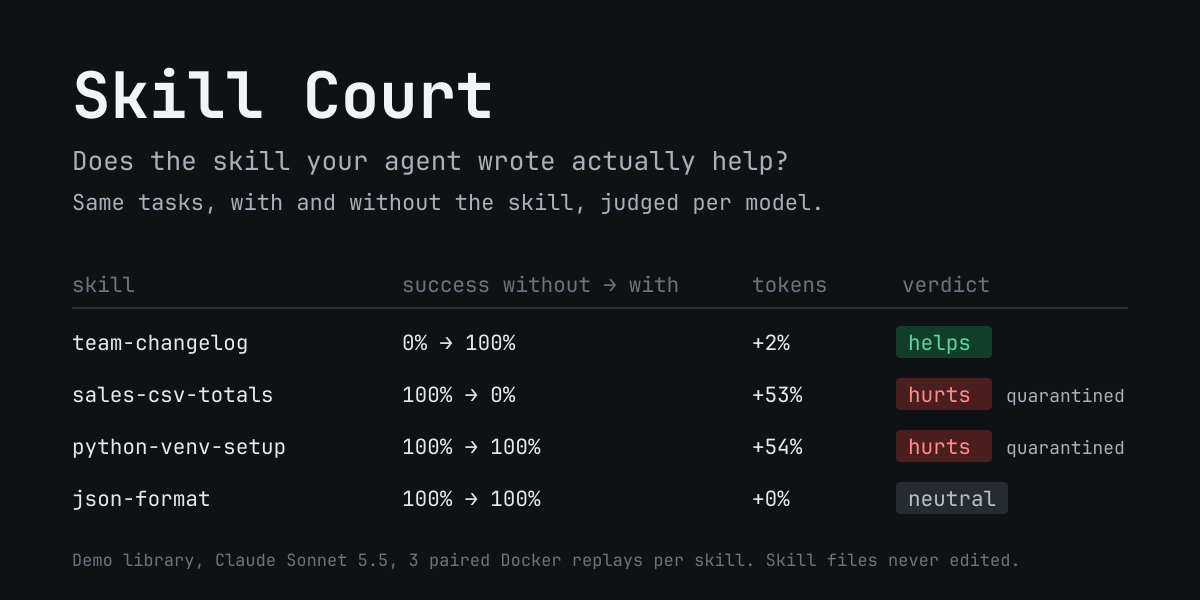
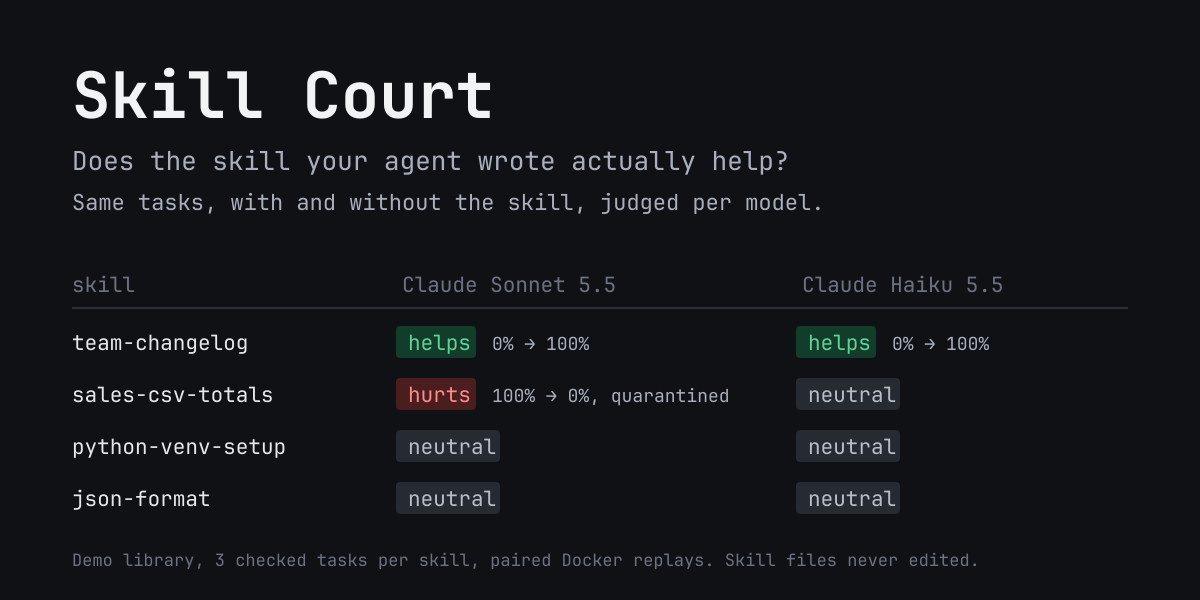
Scrub inherited launch flags, manual approvals and no shell hooks in replays; graceful replay timeout; unpriced cost detection; final demo assets

diff --git a/skill-court/procs.py b/skill-court/procs.py
@@ -1,7 +1,7 @@
 """Run the public ``hermes`` and container CLIs as child processes.
 
-Replays go through ``hermes -p <profile> -z`` because Hermes has no public in-process agent API,
-and sandbox checks go through the same container CLI Hermes' Docker backend uses.
+Replays go through ``hermes -p <profile> chat -Q --oneshot`` because Hermes has no public in-process
+agent API, and sandbox checks go through the same container CLI Hermes' Docker backend uses.
 """
 
 from __future__ import annotations
@@ -11,6 +11,12 @@ import shutil
 import subprocess
 
 from hermes_constants import get_default_hermes_root
+
+# Launch flags Hermes also reads from the environment and folds into a new session. A replay
+# must not inherit them from the user's shell: they would auto-approve, auto-accept shell hooks,
+# or change which rules and config the replay runs with.
+_INHERITED_LAUNCH_FLAGS = ("HERMES_YOLO_MODE", "HERMES_ACCEPT_HOOKS", "HERMES_IGNORE_RULES",
+                           "HERMES_SAFE_MODE", "HERMES_IGNORE_USER_CONFIG")
 
 
 class CommandError(RuntimeError):
@@ -34,21 +40,39 @@ def container_binary() -> str:
 
 
 def child_env() -> dict[str, str]:
-    """Environment for child ``hermes`` processes: rooted at the Hermes root so ``-p`` picks the profile."""
-    env = dict(os.environ)
+    """Environment for child ``hermes`` processes: rooted at the Hermes root so ``-p`` picks the
+    profile, without launch flags inherited from the user's shell."""
+    env = {k: v for k, v in os.environ.items() if k not in _INHERITED_LAUNCH_FLAGS}
     env["HERMES_HOME"] = str(get_default_hermes_root())
     return env
 
 
-def run(argv: list[str], *, timeout: float, check: bool = True, cwd: str | None = None) -> subprocess.CompletedProcess:
-    try:
-        proc = subprocess.run(argv, capture_output=True, text=True, timeout=timeout, env=child_env(), cwd=cwd)
-    except subprocess.TimeoutExpired as exc:
-        raise CommandError(f"`{' '.join(argv[:4])} …` timed out after {timeout:.0f}s") from exc
-    if check and proc.returncode != 0:
-        tail = (proc.stderr or proc.stdout).strip().splitlines()[-3:]
-        raise CommandError(f"`{' '.join(argv[:4])} …` exited {proc.returncode}: {' | '.join(tail)}")
-    return proc
+def run(argv: list[str], *, timeout: float, check: bool = True, cwd: str | None = None,
+        grace: float = 0) -> subprocess.CompletedProcess:
+    """Run ``argv`` and capture its output. Past ``timeout`` the process gets SIGTERM and ``grace``
+    seconds to stop cleanly (a single-query ``hermes chat`` interrupts its turn on SIGTERM), then
+    SIGKILL; either way the call raises ``CommandError``."""
+    with subprocess.Popen(argv, stdout=subprocess.PIPE, stderr=subprocess.PIPE, text=True,
+                          env=child_env(), cwd=cwd) as proc:
+        try:
+            stdout, stderr = proc.communicate(timeout=timeout)
+        except subprocess.TimeoutExpired:
+            if grace > 0:
+                proc.terminate()
+                try:
+                    proc.communicate(timeout=grace)
+                except subprocess.TimeoutExpired:
+                    proc.kill()
+                    proc.communicate()
+            else:
+                proc.kill()
+                proc.communicate()
+            raise CommandError(f"`{' '.join(argv[:4])} …` timed out after {timeout:.0f}s") from None
+    result = subprocess.CompletedProcess(argv, proc.returncode, stdout, stderr)
+    if check and result.returncode != 0:
+        tail = (stderr or stdout).strip().splitlines()[-3:]
+        raise CommandError(f"`{' '.join(argv[:4])} …` exited {result.returncode}: {' | '.join(tail)}")
+    return result
 
 
 def hermes(*args: str, timeout: float = 120, check: bool = True) -> subprocess.CompletedProcess:

diff --git a/skill-court/runner.py b/skill-court/runner.py
@@ -1,8 +1,9 @@
 """One replay: run a task once in a replay profile, then check the result inside its sandbox.
 
 Replays run as single-query sessions (``hermes chat -Q --oneshot``): approval prompts follow
-``approvals.single_query_mode`` (deny in replay profiles) instead of being auto-approved, and
-``--run-budget`` makes the gateway itself end a turn that runs too long.
+``approvals.single_query_mode`` (deny in replay profiles) instead of being auto-approved.
+``--run-budget`` asks the agent to wrap up as the time limit nears; past it, the client gets
+SIGTERM, which interrupts the turn, and SIGKILL if it does not stop.
 """
 
 from __future__ import annotations
@@ -18,8 +19,8 @@ from .arms import MAX_TURNS, profile_home
 from .procs import CommandError, container_binary, hermes_binary, run
 
 CHECK_TIMEOUT = 120
-# Time the client waits past the gateway's own run budget before giving up on a run.
-CLIENT_GRACE = 120
+# Seconds a timed-out replay gets after SIGTERM to interrupt its turn before SIGKILL.
+STOP_GRACE = 30
 _SESSION_LINE = re.compile(r"^session_id:\s*(\S+)\s*$", re.MULTILINE)
 
 
@@ -91,7 +92,8 @@ def apply_session_row(row: dict, result: RunResult) -> bool:
     result.model = row.get("model")
     result.api_calls = row.get("api_call_count")
     result.tokens = tokens or None
-    result.cost_usd = row.get("estimated_cost_usd")
+    # Hermes stores an unpriced session's cost as 0 and marks it with cost_status "unknown".
+    result.cost_usd = None if row.get("cost_status") == "unknown" else row.get("estimated_cost_usd")
     return tokens > 0
 
 
@@ -116,7 +118,7 @@ def replay(profile: str, prompt: str, check_cmd: str | None, *, workdir: Path, t
     started = time.monotonic()
     output = ""
     try:
-        proc = run(argv, timeout=timeout + CLIENT_GRACE, check=False, cwd=str(workdir))
+        proc = run(argv, timeout=timeout, check=False, cwd=str(workdir), grace=STOP_GRACE)
         result.exit_code = proc.returncode
         output = f"{proc.stdout}\n{proc.stderr}"
         found = _SESSION_LINE.search(proc.stderr or "")
@@ -131,6 +133,8 @@ def replay(profile: str, prompt: str, check_cmd: str | None, *, workdir: Path, t
         return result
 
     responded = read_session(profile, result.session_id, result)
+    # The gateway may not have flushed token counters yet; a completed turn with an answer did respond.
+    responded = responded or (result.exit_code == 0 and bool(proc.stdout.strip()))
     try:
         matches = session_containers(profile, result.session_id, _labelled_containers(profile))
         container = matches[0] if len(matches) == 1 else None

diff --git a/skill-court/dashboard/plugin_api.py b/skill-court/dashboard/plugin_api.py
@@ -5,6 +5,7 @@ from __future__ import annotations
 import asyncio
 import importlib.util
 import json
+import sys
 from pathlib import Path
 from types import ModuleType
 
@@ -14,13 +15,25 @@ from pydantic import BaseModel
 
 def _sibling(name: str) -> ModuleType:
     """Load one of the plugin's own modules from the folder above. Hermes imports this file on its
-    own, outside the plugin package; ``store`` and ``skills`` have no relative imports."""
+    own, outside the plugin package; ``store`` and ``skills`` have no relative imports.
+
+    The module is registered under its own ``skill_court_dashboard_*`` name before it runs, as the
+    standard importlib recipe does: its dataclasses look their module up in ``sys.modules``.
+    """
+    module_name = f"skill_court_dashboard_{name}"
+    if module_name in sys.modules:
+        return sys.modules[module_name]
     path = Path(__file__).resolve().parents[1] / f"{name}.py"
-    spec = importlib.util.spec_from_file_location(f"skill_court_dashboard_{name}", path)
+    spec = importlib.util.spec_from_file_location(module_name, path)
     if spec is None or spec.loader is None:
         raise ImportError(f"cannot load {path}")
     module = importlib.util.module_from_spec(spec)
-    spec.loader.exec_module(module)
+    sys.modules[module_name] = module
+    try:
+        spec.loader.exec_module(module)
+    except BaseException:
+        del sys.modules[module_name]
+        raise
     return module
 
 

diff --git a/skill-court/cli.py b/skill-court/cli.py
@@ -40,7 +40,7 @@ def setup(parser: argparse.ArgumentParser) -> None:
     t.add_argument("--allow-unpriced", action="store_true",
                    help="Keep going when the provider reports no price, so the budget cannot apply")
     t.add_argument("--timeout", type=_positive(float), default=900,
-                   help="Seconds per run; Hermes ends a longer turn itself (default 900)")
+                   help="Seconds per run before it is interrupted (default 900)")
     t.add_argument("--model", help="Model for the replays (default: the profile's model)")
     t.add_argument("--provider", help="Provider for the replays")
     t.add_argument("--apply", action="store_true", help="Quarantine skills judged harmful, for that model")
@@ -246,7 +246,7 @@ def dispatch(args: argparse.Namespace) -> int:
         print(f"Released {args.skill} ({count} quarantine record{'s' if count != 1 else ''} removed).")
         return 0 if count else 1
     if command == "list":
-        rows = [list(r) for r in store.quarantine_entries()]
+        rows = [[skill, model, reason, _local(since)] for skill, model, reason, since in store.quarantine_entries()]
         print(_table(rows, ["skill", "model", "reason", "since"]) if rows else "No skills are quarantined.")
         return 0
     print("usage: hermes court {trial,report,tasks,quarantine,release,list}")

diff --git a/skill-court/arms.py b/skill-court/arms.py
@@ -45,8 +45,12 @@ _SANDBOX_SETTINGS = (
     ("memory.provider", ""),
     ("plugins.enabled", "[]"),
     ("skills.write_approval", "true"),
+    # Prompts are answered by single_query_mode (deny), never by the smart-approval guardian, and
+    # the user's shell hooks, which run on the host, do not run in replays.
+    ("approvals.mode", "manual"),
     ("approvals.single_query_mode", "deny"),
-    ("agent.max_turns", str(MAX_TURNS)),
+    ("hooks", "{}"),
+    ("hooks_auto_accept", "false"),
 )
 _DISABLED_TOOLSETS = ("code_execution", "computer_use", "browser", "cronjob", "session_search",
                       "connections", "memory", "kanban", "image_gen", "video_gen", "tts")

diff --git a/tests/test_runner.py b/tests/test_runner.py
@@ -24,6 +24,14 @@ def test_a_session_the_model_never_answered_has_no_outcome():
     assert result.tokens is None and result.cost_usd is None
 
 
+def test_unpriced_session_reports_unknown_cost_not_zero():
+    result = RunResult()
+    apply_session_row(row(estimated_cost_usd=0, cost_status="unknown"), result)
+    assert result.cost_usd is None
+    apply_session_row(row(estimated_cost_usd=0.01, cost_status="estimated"), result)
+    assert result.cost_usd == 0.01
+
+
 def test_container_matches_routed_and_single_profile_labels():
     profile = "court-1a2b3c4d-without"
     routed = f"profile_{profile}_{SESSION}"[:63]

diff --git a/skill-court/README.md b/skill-court/README.md
@@ -22,18 +22,19 @@ paired-arm harness with per-model validation. Skill Court is that harness, wired
 
 ## What it found on a demo library
 
-Four small skills of the kinds an agent writes for itself, three paired runs each, every task
-checked inside its sandbox afterwards:
+Four small skills of the kinds an agent writes for itself, each tried on three different tasks, every
+task checked inside its sandbox afterwards:
 
 | Skill | What it is | Claude Sonnet 5.5 | Claude Haiku 5.5 |
 |---|---|---|---|
 | `team-changelog` | A team convention the model can't guess | **helps**: success 0% → 100% | **helps**: success 0% → 100% |
 | `sales-csv-totals` | A lesson overgeneralised from one session ("amounts are in cents") | **hurts**: success 100% → 0% | neutral |
-| `python-venv-setup` | A setup ritual learned in another repo | **hurts**: same success, +54% tokens | neutral |
+| `python-venv-setup` | A setup ritual learned in another repo | neutral | neutral |
 | `json-format` | A harmless tip | neutral | neutral |
 
-The same skill hurt one model and did nothing on the other, so the two harmful skills are quarantined
-for Sonnet 5.5 only. The demo is in `demo/` (see [Try it](#try-it)).
+Sonnet followed the "cents" rule and got every total wrong; Haiku loaded the same skill and ignored
+it. So `sales-csv-totals` is quarantined for Sonnet 5.5 only. The demo is in `demo/` (see
+[Try it](#try-it)).
 
 ## How a trial works
 
@@ -53,7 +54,7 @@ hermes court trial --all
 4. **Scores.** A task's check runs inside the run's sandbox afterwards (exit 0 = pass); a task without
    a check counts the run completing. Token use is compared pair by pair. A run the model never
    answered (provider, credit or credential errors) has no outcome and is left out, instead of being
-   counted against the skill; a run that hits its time or iteration limit counts as not completed.
+   counted against the skill; a run that hits its iteration limit counts as not completed.
 5. **Rules.** Repeated runs of one task are averaged first, so evidence is counted per task. `hurts`
    when success drops with the skill, or when success is unchanged and the skill costs at least 25%
    more tokens; `helps` is the reverse; `neutral` when neither shows; `inconclusive` under three
@@ -83,7 +84,7 @@ reason (`pre_tool_call`). Other models keep seeing it.
 
 `trial` options: `--tasks 5` per skill, `--reps 1` per task and arm, `--parallel 4` concurrent runs,
 `--budget 3` (USD; no new runs start past it), `--allow-unpriced` to keep going when the provider
-reports no price, `--timeout 900` seconds per run (Hermes ends a longer turn itself), `--model` and
+reports no price, `--timeout 900` seconds per run before it is interrupted, `--model` and
 `--provider` for the replays, `--apply` to quarantine harmful skills, `--keep-sandboxes` to keep the
 replay profiles for inspection.
 
@@ -111,14 +112,15 @@ Straight from GitHub: `hermes plugins install saatvik333/hermes-skill-court/skil
 
 From a checkout of [the repository](https://github.com/saatvik333/hermes-skill-court),
 `demo/setup.sh <profile>` copies the four demo skills into a profile, marks them as agent-written
-(`hermes curator adopt`), pins them so the curator leaves them alone, and gives each a checked task.
-Use a lab profile with the plugin enabled, not the one you work in:
+(`hermes curator adopt`), pins them so the curator leaves them alone, and gives each three checked
+tasks. Use a lab profile with the plugin enabled, not the one you work in:
 
 ```
 hermes profile create courtlab --clone
+hermes -p courtlab plugins install saatvik333/hermes-skill-court/skill-court --enable
 demo/setup.sh courtlab
-hermes -p courtlab court trial --all --tasks 1 --reps 3 --apply
-hermes -p courtlab court trial --all --tasks 1 --reps 3 --apply --model claude-haiku-5-5 --provider anthropic
+hermes -p courtlab court trial --all --tasks 3 --apply
+hermes -p courtlab court trial --all --tasks 3 --apply --model claude-haiku-5-5 --provider anthropic
 hermes -p courtlab court report
 ```
 
@@ -131,9 +133,12 @@ hermes -p courtlab court report
   Disclosure), so a skill that depends on one of them is measured without it.
 - Three tasks is the minimum for a verdict, not strong evidence: it means all three moved the same
   way. Quarantine is reversible for that reason. Use more tasks before trusting a close call.
-- A replay runs for at most 60 tool-calling iterations and `--timeout` seconds; one that hits
-  either counts as not completed. A run whose client gives up (Hermes stopped answering) has no
-  outcome, and its spend may be missing from the total, which is therefore a lower bound.
+- A replay runs for at most 60 tool-calling iterations; one that hits the limit counts as not
+  completed. Near `--timeout` the agent is asked to wrap up; past it the run is interrupted and has
+  no outcome, and its spend may be missing from the total, which is therefore a lower bound.
+- A provider error partway through a run (after the model has already answered some calls) counts
+  as the run not completing, against whichever arm it hit. Only runs the model never answered are
+  left out.
 - Quarantine hides a skill from the agent's skill index and skill tools; the file stays readable to
   file tools.
 - In `codex_app_server` mode the prompt bypasses `llm_request`, so the model is never known to the
@@ -153,17 +158,18 @@ hermes -p courtlab court report
   refuses to touch a profile with one of those names that it did not create.
 - **Replays are real agent runs.** They spend tokens with your model provider (`--budget`, default
   $3, stops new runs) and send the replayed task text to it, as the original session did. They run
-  as single-query sessions, not with `-z`: an approval prompt is denied
-  (`approvals.single_query_mode: deny` in the replay profiles), never auto-approved. Shell commands
-  run inside the Docker sandbox, where Hermes does not ask for command approval.
+  as single-query sessions, not with `-z`: approvals are set to manual and an approval prompt is
+  denied (`approvals.single_query_mode: deny`), never auto-approved. Hermes launch flags in your
+  environment (`HERMES_YOLO_MODE`, `HERMES_ACCEPT_HOOKS` and the like) are not passed to replays.
+  Shell commands run inside the Docker sandbox, where Hermes does not ask for command approval.
 - **What a replay profile changes from your profile:** Docker backend with one fresh container per
   run; no host directories mounted, no extra `docker run` flags, no container env, no forwarded host
   env and no `env_passthrough`; egress proxy off (its credentials belong to your profile and are not
-  cloned); no MCP servers, external memory provider or other plugins; skill edits staged rather than
-  applied; and these toolsets turned off: code execution, computer use, browser, cron jobs, memory,
-  session search, connections, kanban, image, video and speech generation. Environment variables that
-  a loaded skill declares it needs are still passed into the sandbox, as in normal Hermes use, and web
-  search uses your own search keys.
+  cloned); no MCP servers, external memory provider, other plugins or shell hooks; skill edits
+  staged rather than applied; and these toolsets turned off: code execution, computer use, browser,
+  cron jobs, memory, session search, connections, kanban, image, video and speech generation.
+  Environment variables that a loaded skill declares it needs are still passed into the sandbox, as
+  in normal Hermes use, and web search uses your own search keys.
 - **Reads:** session history through Hermes' read-only `SessionDB`, the skill catalog through Hermes'
   public skill helpers and the skills directory's `.usage.json`, and `skills.disabled` /
   `model.default` through `hermes config get`.
